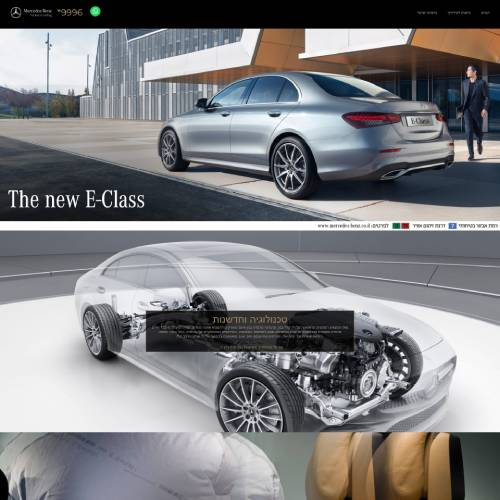
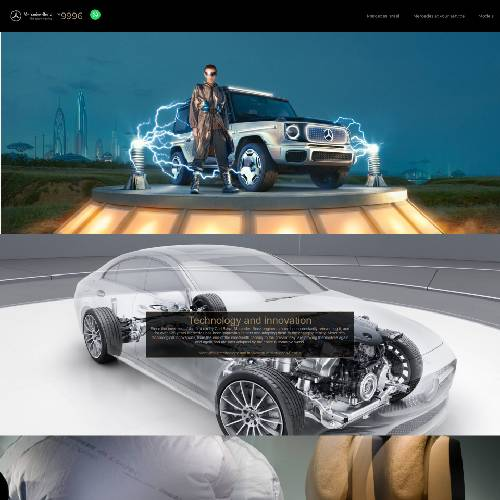
added mercedes template

diff --git a/src/constants.js b/src/constants.js
@@ -730,7 +730,7 @@ export const SIDEBAR_ITEMS_SECTIONS = [
                   type: COMPONENT,
                   component: {
                     type: 'text',
-                    data: { txt: 'מורשת' },
+                    data: { txt: 'Legacy' },
                     style: {
                       color: '#9f835e',
                       fontSize: 40,
@@ -743,7 +743,7 @@ export const SIDEBAR_ITEMS_SECTIONS = [
                   type: COMPONENT,
                   component: {
                     type: 'text',
-                    data: { txt: 'המורשת של מרצדס בנץ משתרעת על פני למעלה מ-125 שנים בהם ביססה החברה את מעמדה כאחת מיצרניות הרכב המובילות בעולם. מרצדס בנץ מילאה תפקיד מרכזי בהיסטוריה של תעשיית הרכב והייתה ועודנה חלוצה בתחומי הטכנולוגיה, הבטיחות, העיצוב, הספורט מוטורי והקיימות. ' },
+                    data: { txt: 'The legacy of Mercedes-Benz spans over 125 years in which the company has established its position as one of the leading car manufacturers in the world. Mercedes-Benz has played a key role in the history of the automotive industry and has been and still is a pioneer in the fields of technology, safety, design, motor sports and sustainability.' },
                     style: {
                       color: '#a09d9d',
                       fontSize: 15,
@@ -758,7 +758,7 @@ export const SIDEBAR_ITEMS_SECTIONS = [
                   type: COMPONENT,
                   component: {
                     type: 'text',
-                    data: { txt: '< עוד על מורשת מרצדס-בנץ' },
+                    data: { txt: 'More about the heritage of Mercedes-Benz >' },
                     style: {
                       color: '#9f835e',
                       fontSize: 15,
@@ -807,7 +807,7 @@ export const SIDEBAR_ITEMS_SECTIONS = [
                   component: {
                     type: 'button',
                     data: {
-                      txt: 'TV מרצדס',
+                      txt: 'Mercedes TV',
                       hoverColor: '#000000'
                     },
                     style: {
@@ -852,9 +852,9 @@ export const SIDEBAR_ITEMS_SECTIONS = [
                   type: COMPONENT,
                   component: {
                     type: 'text',
-                    data: { txt: 'Stronger than Time- מרצדס G-Class' },
+                    data: { txt: 'Stronger than Time- Mercedes G-Class' },
                     style: {
-                      textAlign: 'right',
+                      textAlign: 'center',
                       fontFamily: 'Arial',
                       color: '#9f835e',
                       marginTop: 15,
@@ -887,7 +887,7 @@ export const SIDEBAR_ITEMS_SECTIONS = [
                     type: 'text',
                     data: { txt: "EQC- It's more than electric. It's a Mercedes" },
                     style: {
-                      textAlign: 'right',
+                      textAlign: 'center',
                       fontFamily: 'Arial',
                       color: '#9f835e',
                       marginTop: 15,
@@ -920,7 +920,7 @@ export const SIDEBAR_ITEMS_SECTIONS = [
                     type: 'text',
                     data: { txt: 'The new EQB' },
                     style: {
-                      textAlign: 'right',
+                      textAlign: 'center',
                       fontFamily: 'Arial',
                       color: '#9f835e',
                       marginTop: 15,
@@ -953,7 +953,7 @@ export const SIDEBAR_ITEMS_SECTIONS = [
                     type: 'text',
                     data: { txt: "The all-new EQA- It's more than electric. It's a Mercedes" },
                     style: {
-                      textAlign: 'right',
+                      textAlign: 'center',
                       fontFamily: 'Arial',
                       color: '#9f835e',
                       marginTop: 15,
@@ -991,9 +991,9 @@ export const SIDEBAR_ITEMS_SECTIONS = [
                   type: COMPONENT,
                   component: {
                     type: 'text',
-                    data: { txt: 'GLE Coupe- חיית כבישים עם כל האבזור והטכנולוגיה שאפשר לבקש' },
+                    data: { txt: 'GLE Coupe - a road animal with all the equipment and technology you could ask for' },
                     style: {
-                      textAlign: 'right',
+                      textAlign: 'center',
                       fontFamily: 'Arial',
                       color: '#9f835e',
                       marginTop: 15,
@@ -1024,9 +1024,9 @@ export const SIDEBAR_ITEMS_SECTIONS = [
                   type: COMPONENT,
                   component: {
                     type: 'text',
-                    data: { txt: "Mercedez AMG- לוקח אותך לקצה" },
+                    data: { txt: 'Mercedes AMG- takes you to the edge' },
                     style: {
-                      textAlign: 'right',
+                      textAlign: 'center',
                       fontFamily: 'Arial',
                       color: '#9f835e',
                       marginTop: 15,
@@ -1059,7 +1059,7 @@ export const SIDEBAR_ITEMS_SECTIONS = [
                     type: 'text',
                     data: { txt: 'GLA- The best Premium compact SUV' },
                     style: {
-                      textAlign: 'right',
+                      textAlign: 'center',
                       fontFamily: 'Arial',
                       color: '#9f835e',
                       marginTop: 15,
@@ -1092,9 +1092,9 @@ export const SIDEBAR_ITEMS_SECTIONS = [
                   type: COMPONENT,
                   component: {
                     type: 'text',
-                    data: { txt: 'מרצדס S Class- רכב הפאר הטוב ביותר בעולם' },
+                    data: { txt: 'Mercedes S Class - the best luxury car in the world' },
                     style: {
-                      textAlign: 'right',
+                      textAlign: 'center',
                       fontFamily: 'Arial',
                       color: '#9f835e',
                       marginTop: 15,
@@ -1137,7 +1137,7 @@ export const SIDEBAR_ITEMS_SECTIONS = [
                     type: 'text',
                     data: { txt: 'The new E-Class Coupe : Made to be dynamic' },
                     style: {
-                      textAlign: 'right',
+                      textAlign: 'center',
                       fontFamily: 'Arial',
                       color: '#9f835e',
                       marginTop: 15,
@@ -1170,7 +1170,7 @@ export const SIDEBAR_ITEMS_SECTIONS = [
                     type: 'text',
                     data: { txt: 'E-Class Cabriolet - More then ever' },
                     style: {
-                      textAlign: 'right',
+                      textAlign: 'center',
                       fontFamily: 'Arial',
                       color: '#9f835e',
                       marginTop: 15,
@@ -1201,9 +1201,9 @@ export const SIDEBAR_ITEMS_SECTIONS = [
                   type: COMPONENT,
                   component: {
                     type: 'text',
-                    data: { txt: 'AMG GT Black Series- ספורטיבית ללא פשרות' },
+                    data: { txt: 'AMG GT Black Series - uncompromisingly sporty' },
                     style: {
-                      textAlign: 'right',
+                      textAlign: 'center',
                       fontFamily: 'Arial',
                       color: '#9f835e',
                       marginTop: 15,
@@ -1236,9 +1236,9 @@ export const SIDEBAR_ITEMS_SECTIONS = [
                   type: COMPONENT,
                   component: {
                     type: 'text',
-                    data: { txt: 'GLB- הצורה היפה ביותר של החופש ברכב הפנאי שייקח אותך לעולם של חוויות חדשות' },
+                    data: { txt: 'GLB- The most beautiful form of freedom in the recreational vehicle that will take you to a world of new experiences' },
                     style: {
-                      textAlign: 'right',
+                      textAlign: 'center',
                       fontFamily: 'Arial',
                       color: '#9f835e',
                       marginTop: 15,
@@ -1464,11 +1464,10 @@ export const SIDEBAR_ITEMS_FOOTER = [
                   component: {
                     type: 'text',
                     data: {
-                      txt: 'הידע והנתונים המופיעים באתר זה מתייחסים למגוון דגמים המשווקים במקומות שונים בעולם ומעודכנים למועד הבאת המקור הלועזי לתרגום. ייתכנו הבדלים בין התיאור המובא באתר זה לבין הדגמים המשווקים על-ידי חברתנו, הן מבחינת המפרט הטכני והן מבחינת האביזרים, הציוד והמערכות הנלוות. כמו כן ייתכנו הבדלים בדגם מסויים, בהתאם לשינויים הנעשים מזמן לזמן. חלק מהאביזרים ו/או המערכות המפורטים באתר זה מצוי רק בחלק מדגמי הרכבים, אין בפרסום המובא באתר זה כדי לחייב את היצרן ו/או את החברה בהספקת דגמים שיכללו את כל או חלק מהאביזרים, הציוד והמערכות המתוארים בו והם שומרים לעצמם את הזכות לבטל, להוסיף, לשנות ולשפר, ללא הודעה מוקדמת וללא עידכון באתר זה. התמונות באתר הינן להמחשה בלבד. האתר כפוף לשינוי ללא הודעה מוקדמת. ט.ל.ח.'
+                      txt: 'The knowledge and data that appear on this site refer to a variety of models that are marketed in different places in the world and are updated to the date of bringing the foreign source for translation. There may be differences between the description provided on this site and the models marketed by our company, both in terms of technical specifications and in terms of accessories, equipment and related systems. There may also be differences in a particular model, depending on the changes made from time to time. Some of the accessories and / or systems listed on this site are found only in some of the vehicle models, the publication presented on this site does not oblige the manufacturer and / or the company to supply models that include all or some of the accessories, equipment and systems described therein and reserve the right to cancel, add , Change and improve, without prior notice and without updating on this site. The photos on the site are for illustration only. The site is subject to change without notice. T.L.H.'
                     },
                     style: {
-                      color: '#A09D9D',
-                      textAlign: 'right'
+                      color: '#A09D9D'
                     }
                   }
                 }
@@ -1481,7 +1480,8 @@ export const SIDEBAR_ITEMS_FOOTER = [
           type: INNERSECTION,
           style: {
             backgroundImage: 'url(https://www.mercedes-benz.co.il/wp-content/uploads/social-bg-1.jpg)',
-            height: 175
+            height: 175,
+            alignItems: 'center'
           },
           cmps: [
             {
@@ -1497,7 +1497,7 @@ export const SIDEBAR_ITEMS_FOOTER = [
                   component: {
                     type: 'text',
                     data: {
-                      txt: '.מרצדס-בנץ באינסטגרם',
+                      txt: 'Mercedes-Benz on Instagram',
                     },
                     style: {
                       color: '#ffffff',
@@ -1511,7 +1511,7 @@ export const SIDEBAR_ITEMS_FOOTER = [
                   component: {
                     type: 'text',
                     data: {
-                      txt: '.כל העדכונים, החידושים, האירועים, הדגמים. ',
+                      txt: 'All updates, innovations, events, models.',
                     },
                     style: {
                       color: '#ffffff',
@@ -1525,7 +1525,7 @@ export const SIDEBAR_ITEMS_FOOTER = [
                   component: {
                     type: 'button',
                     data: {
-                      txt: 'עקבו אחרינו',
+                      txt: 'Follow us',
                       hoverColor: '#00abec'
                     },
                     style: {
@@ -1548,6 +1548,7 @@ export const SIDEBAR_ITEMS_FOOTER = [
           id: utilService.makeId(),
           type: INNERSECTION,
           style: {
+            paddingTop: 20,
             alignSelf: 'center',
             backgroundColor: '#000000'
           },
@@ -1568,12 +1569,11 @@ export const SIDEBAR_ITEMS_FOOTER = [
                     type: 'text',
                     style: {
                       color: '#ffffff',
-                      textAlign: 'right',
                       paddingBottom: 30,
                       fontFamily: 'Arial',
                     },
                     data: {
-                      txt: 'מוקד מכירות מרצדס-בנץ 9996*'
+                      txt: 'Mercedes-Benz *9996'
                     }
                   }
                 },
@@ -1585,12 +1585,11 @@ export const SIDEBAR_ITEMS_FOOTER = [
                     type: 'text',
                     style: {
                       color: '#ffffff',
-                      textAlign: 'right',
                       paddingBottom: 30,
                       fontFamily: 'Arial',
                     },
                     data: {
-                      txt: 'שירות לקוחות: טל. 03-9153030'
+                      txt: 'Customer service: Tel. 03-9153030'
                     }
                   }
                 },
@@ -1602,11 +1601,10 @@ export const SIDEBAR_ITEMS_FOOTER = [
                     type: 'text',
                     style: {
                       color: '#a09d9d',
-                      textAlign: 'right',
                       fontFamily: 'Arial',
                     },
                     data: {
-                      txt: 'מדיניות פרטיות'
+                      txt: 'Privacy Policy'
                     }
                   }
                 },
@@ -1618,11 +1616,10 @@ export const SIDEBAR_ITEMS_FOOTER = [
                     type: 'text',
                     style: {
                       color: '#a09d9d',
-                      textAlign: 'right',
                       fontFamily: 'Arial'
                     },
                     data: {
-                      txt: 'תנאי שימוש'
+                      txt: 'Terms of Use'
                     }
                   }
                 },
@@ -1634,11 +1631,10 @@ export const SIDEBAR_ITEMS_FOOTER = [
                     type: 'text',
                     style: {
                       color: '#a09d9d',
-                      textAlign: 'right',
                       fontFamily: 'Arial'
                     },
                     data: {
-                      txt: 'הצהרת נגישות'
+                      txt: 'Accessibility statement'
                     }
                   }
                 }
@@ -1660,11 +1656,10 @@ export const SIDEBAR_ITEMS_FOOTER = [
                     type: 'text',
                     style: {
                       color: '#a09d9d',
-                      textAlign: 'right',
                       fontFamily: 'Arial'
                     },
                     data: {
-                      txt: 'מדדי זיהום אויר וצריכת דלק'
+                      txt: 'Air pollution and fuel consumption indices'
                     }
                   }
                 },
@@ -1676,11 +1671,10 @@ export const SIDEBAR_ITEMS_FOOTER = [
                     type: 'text',
                     style: {
                       color: '#a09d9d',
-                      textAlign: 'right',
                       fontFamily: 'Arial'
                     },
                     data: {
-                      txt: 'מחירון חלפים מרצדס'
+                      txt: 'Price list for Mercedes spare parts'
                     }
                   }
                 },
@@ -1692,11 +1686,10 @@ export const SIDEBAR_ITEMS_FOOTER = [
                     type: 'text',
                     style: {
                       color: '#a09d9d',
-                      textAlign: 'right',
                       fontFamily: 'Arial'
                     },
                     data: {
-                      txt: 'אודות מרצדס-בנץ'
+                      txt: 'About Mercedes-Benz'
                     }
                   }
                 },
@@ -1708,11 +1701,10 @@ export const SIDEBAR_ITEMS_FOOTER = [
                     type: 'text',
                     style: {
                       color: '#a09d9d',
-                      textAlign: 'right',
                       fontFamily: 'Arial'
                     },
                     data: {
-                      txt: 'שירות לקוחות'
+                      txt: 'Customer Service'
                     }
                   }
                 },
@@ -1724,11 +1716,10 @@ export const SIDEBAR_ITEMS_FOOTER = [
                     type: 'text',
                     style: {
                       color: '#a09d9d',
-                      textAlign: 'right',
                       fontFamily: 'Arial'
                     },
                     data: {
-                      txt: 'צור קשר'
+                      txt: 'Contact Us'
                     }
                   }
                 },
@@ -1740,11 +1731,10 @@ export const SIDEBAR_ITEMS_FOOTER = [
                     type: 'text',
                     style: {
                       color: '#a09d9d',
-                      textAlign: 'right',
                       fontFamily: 'Arial'
                     },
                     data: {
-                      txt: 'מגזין מרצדס Star'
+                      txt: 'Mercedes Star Magazine'
                     }
                   }
                 }
@@ -1756,7 +1746,6 @@ export const SIDEBAR_ITEMS_FOOTER = [
               style: {
                 paddingRight: 25,
                 borderRight: '1px solid #555',
-                textAlign: 'right'
               },
               cmps: [
                 {
@@ -1782,11 +1771,10 @@ export const SIDEBAR_ITEMS_FOOTER = [
                     type: 'text',
                     style: {
                       color: '#ffffff',
-                      textAlign: 'right',
                       fontFamily: 'Arial'
                     },
                     data: {
-                      txt: 'מרצדס בנץ ישראל הוקמה על ידי חברת כלמוביל בשנת 1963, והייתה ליבואנית הראשונה של מכוניות יוקרה בישראל. מרצדס בנץ ישראל היא חלק מחברת כלמוביל שנוסדה בשנת 1936 ונמצאת בבעלות משפחת חרל"פ. קבוצת כלמוביל היא יבואנית הרכב המובילה בישראל הן של כלי רכב פרטיים, והן של כלי רכב מסחריים, משאיות ואוטובוסים לישראל.'
+                      txt: 'Mercedes Benz Israel was founded by Colmobil in 1963, and was the first importer of luxury cars in Israel. Mercedes Benz Israel is part of Colmobil, which was founded in 1936 and is owned by the Harlap family. The Colmobil Group is the leading car importer in Israel of both private vehicles and commercial vehicles, trucks and buses to Israel.'
                     }
                   }
                 }

diff --git a/src/services/template.service.js b/src/services/template.service.js
@@ -16,7 +16,7 @@ const gTemplates = [
         title: 'Restaurant',
     },
     {
-        json: 'T9Aek',
+        json: '615726b67ee46d2a8f34a89d',
         img: mercedes,
         title: 'Mercedes',
     },
